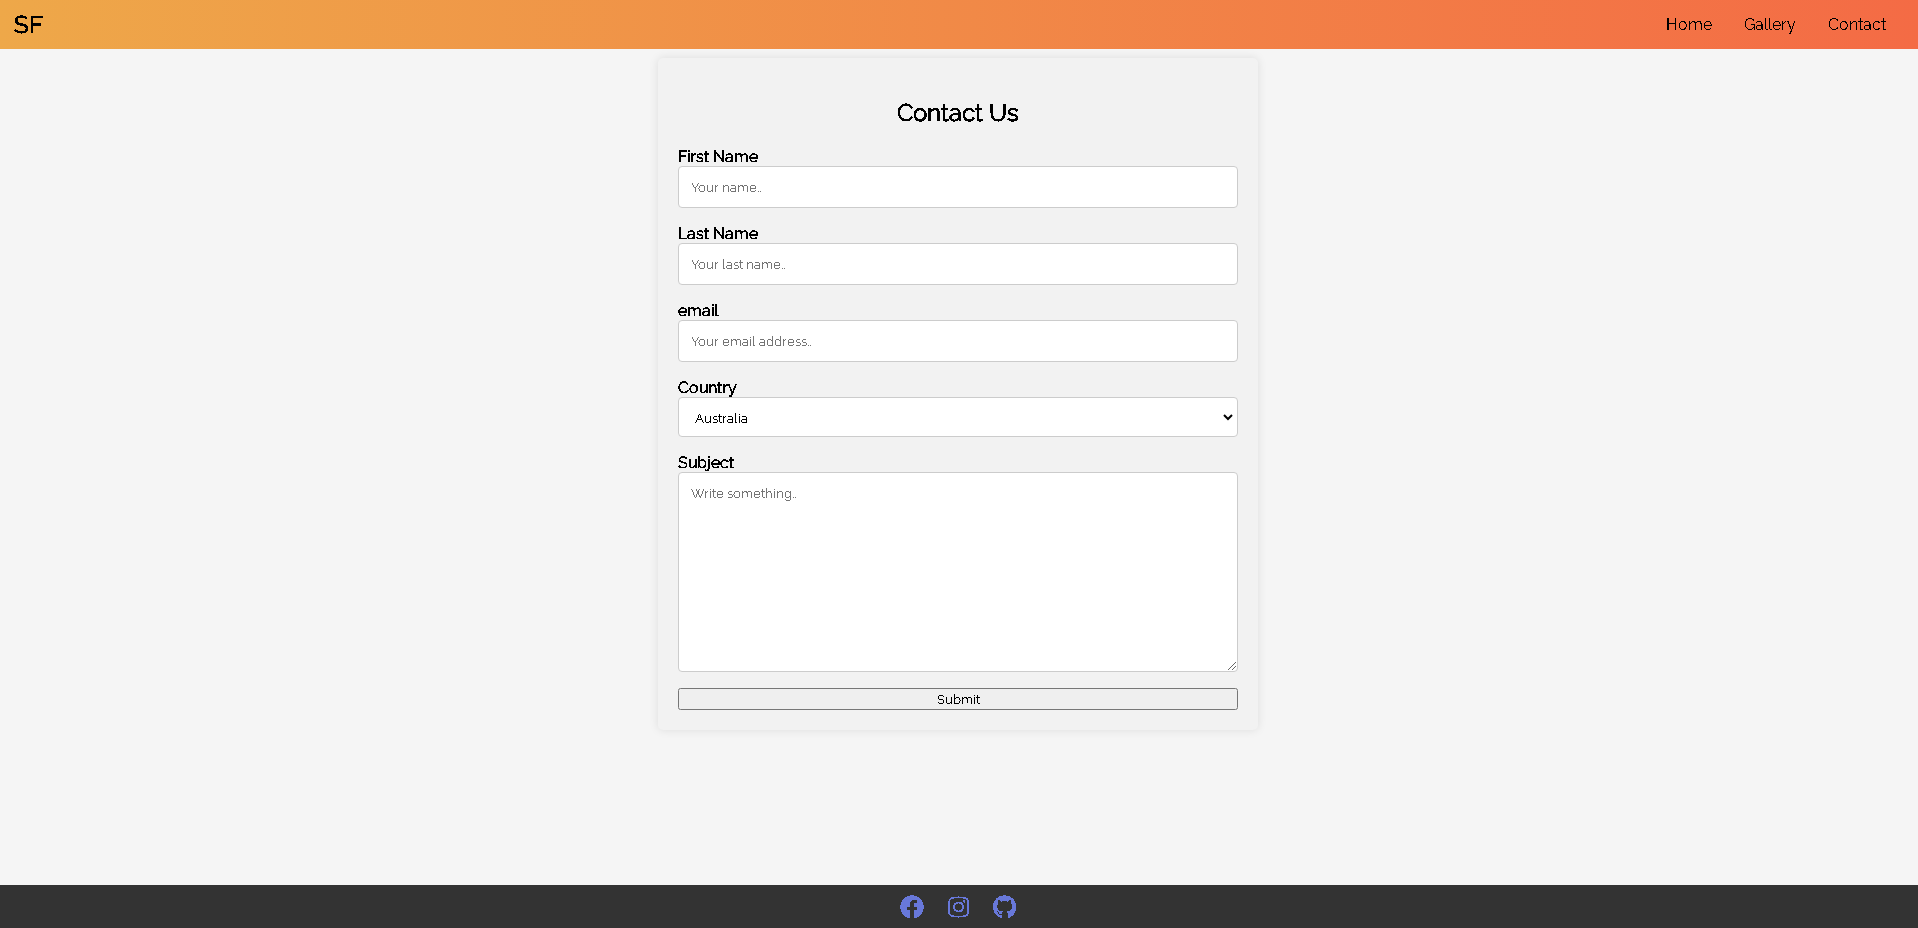
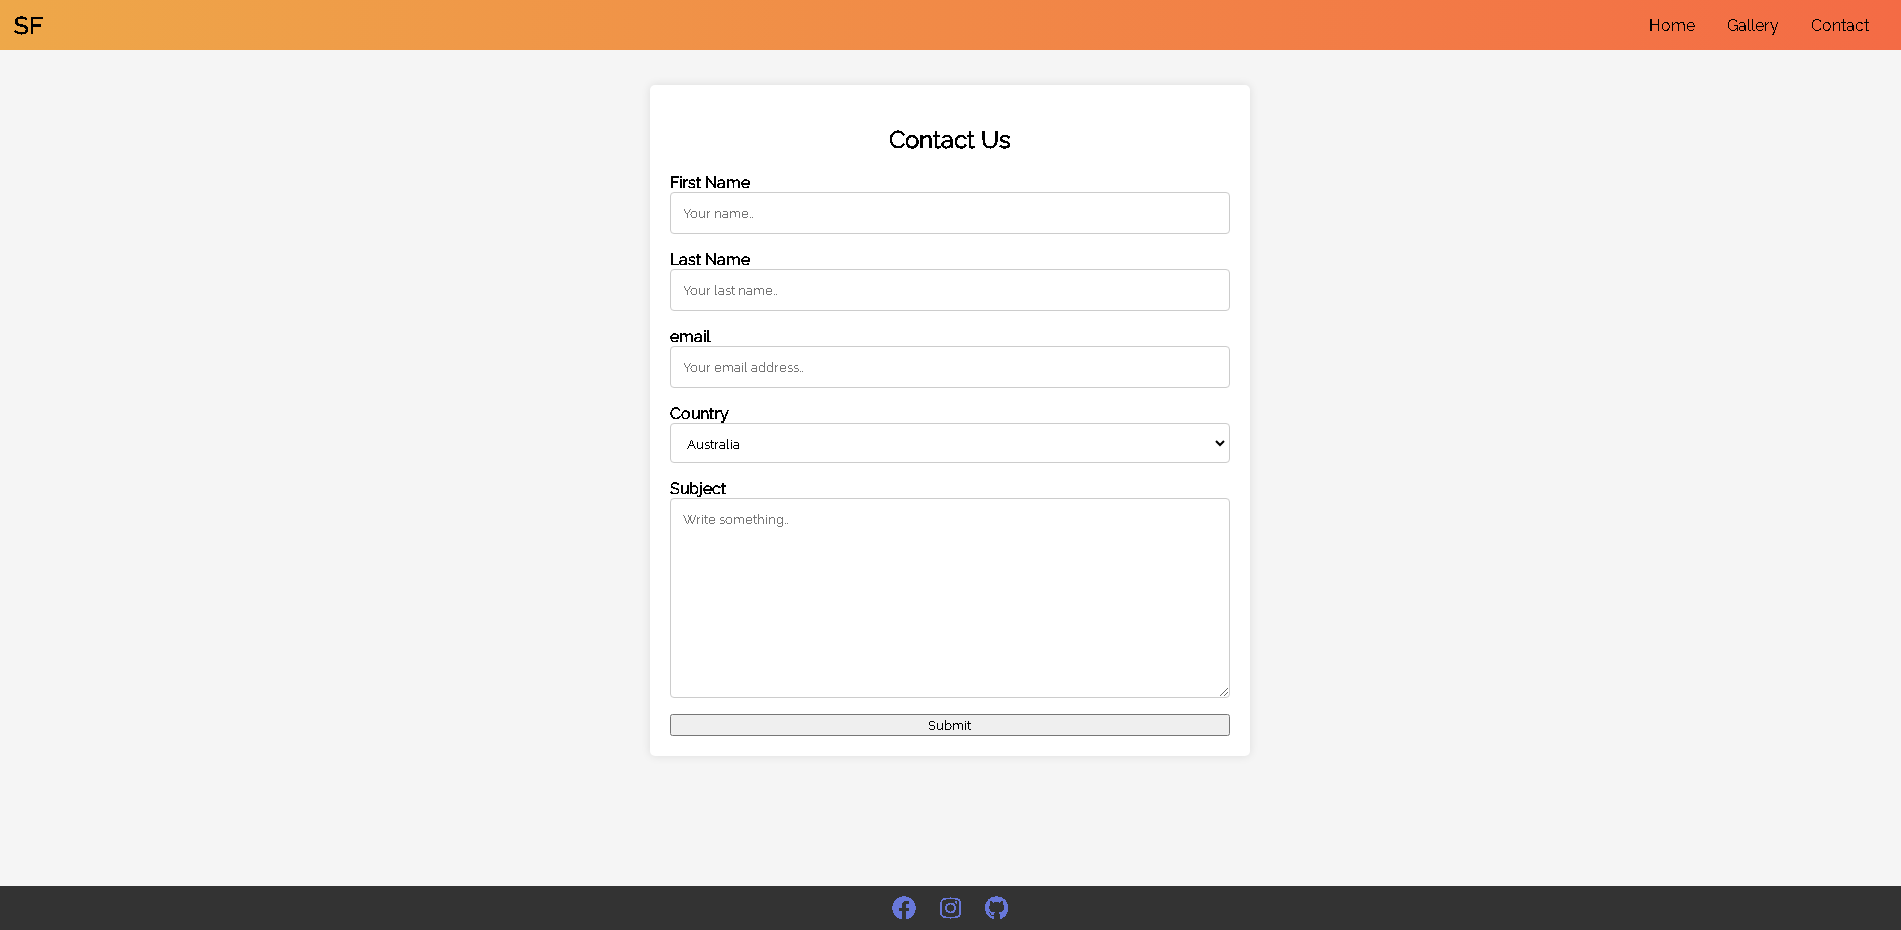
centered contact-form and updated the picture

diff --git a/assets/css/styles.css b/assets/css/styles.css
@@ -232,18 +232,25 @@ margin-top: 20px;
   text-align: center;
 }
 /* gallery-page styles */
-
+/*Contact Form*/
 .contact-page {
   background-color: #f5f5f5;
 }
+
+.contact-main {
+  display: flex;
+  justify-content: center;
+  align-items: center;
+  min-height: 100vh;
+}
+
 .contact-container {
   max-width: 600px;
-  margin: 0 auto;
   padding: 20px;
   background-color: #fff;
   box-shadow: 0 0 10px rgba(0, 0, 0, 0.1);
   border-radius: 5px;
-  margin-top: 59px;
+  width: 100%;
 }
 
 form {
@@ -289,12 +296,6 @@ input[type='submit'] {
 
 input[type='submit']:hover {
   background-color: #45a049;
-}
-
-.contact-container {
-  background-color: #f2f2f2;
-  padding: 20px;
-  border-radius: 5px;
 }
 /*Contact Form*/
 
